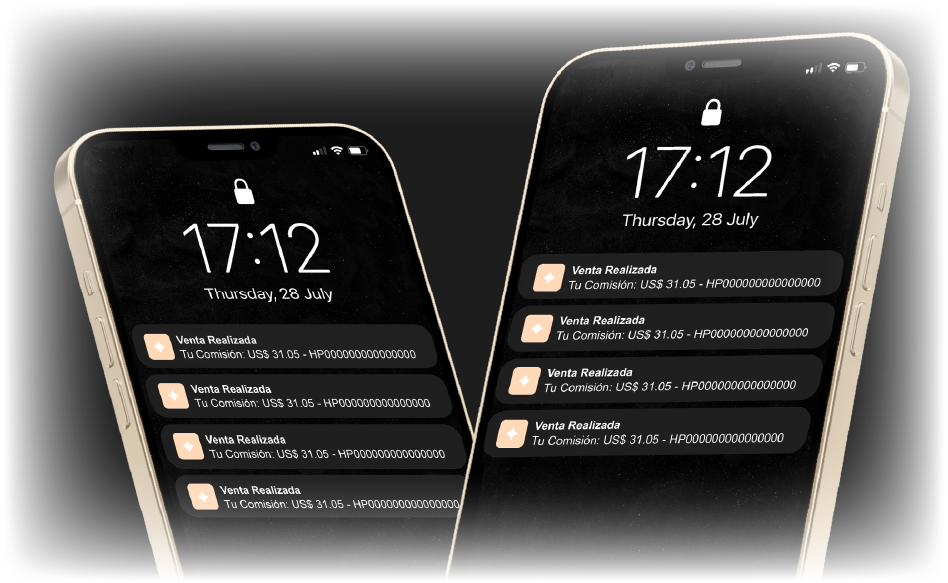
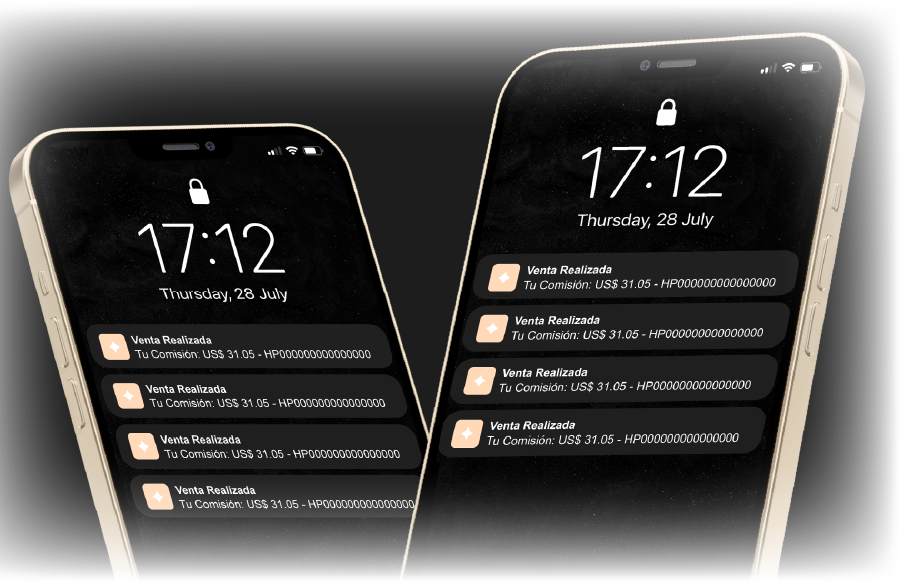
css changes

diff --git a/css/large.css b/css/large.css
@@ -6,20 +6,20 @@
     header{
         margin-top: 15vh;
         display: grid;
-        grid-template-columns: 60% 40%;
-        grid-template-rows: 10vh 10vh 10vh auto auto auto;
+        grid-template-columns: 50% 50%;
+        grid-template-rows: 15vh fit-content auto 20vh auto;
         margin-bottom: 15vh;
     }
     #iphones{
-        grid-column: 2/3;
-        grid-row: 1/4;
-        
-        align-self: flex-end;
+        grid-column: 1/2;
+        grid-row: 2/5;
+        height: 100%;
+        width: auto;
     }
     #logo-header{
-        height: 100%;
+        height: 15vh;
         grid-column: 1/2;
-        grid-row: 1/4;
+        grid-row: 1/2;
         align-self: flex-end;
         justify-self: left;
         margin-left: 0;
@@ -31,51 +31,56 @@
         align-self: flex-end;
     }
     #subtitulo-header{
-        grid-column: 1/3;
-        grid-row: 4/5;
+        grid-column: 2/3;
+        grid-row: 1/3;
         align-self: flex-start;
-        text-align: left;
+        text-align: center;
+        font-size: 2rem;
+        padding: 0 1.5vw;
+        margin-top: 0;
+        margin-bottom: 0;
     }
     header div{
-        grid-row: 5/6;
-        grid-column: 1/3;
-        /*display: grid;*/
+        grid-row: 3/5;
+        grid-column: 2/3;
         display: flex;
         flex-direction: column;
         align-items: center;
-        grid-template-columns: 50% 50%;
         width: 100%;
+        
     }
     #sub-p1{
         font-size: 1.5rem;
-        grid-column: 1/3;
-        grid-row: 1/4;
-        text-align: left;
+        text-align: center;
         align-self: flex-start;
         margin: auto;
-        width: 100%;
+        width: 80%;
     }
     #sub-p2{
         width: 100%;
+        font-size: 1rem;
         text-align: center;
         align-self: flex-start;
         margin: 2rem 0 0.5rem 0;
-        grid-column: 1/3;
     }
-    #sub-p2+button{
+    #button-1-link{
         transition: 0.2s box-shadow;
+        width: 80%;
+        display: block;
+    }
+    #button-1{
+        width: 100%;
+        font-size: 1.5rem;
+        font-weight: 400;
     }
     #sub-p2+ a button:hover{
         box-shadow: 1px 1px 15px 1px #a0805380;
     }
     header div .boton-principal{
-        width: var(--button-image-size);
-        grid-column: 1/3;
         font-weight: 500;
     }
     #pagos-1{
-        width: var(--button-img-size);
-        grid-column: 1/3;
+        width: 79%;
         display: flex;
         align-items: center;
     }
@@ -91,20 +96,43 @@
     }
     /* --- CUATRO PUNTOS --- */
     #cuatro-puntos{
-        padding: 0 20vw;
+        padding: auto;
         display: grid;
-        grid-template-columns: auto auto;
+        grid-template-columns: 50% 50%;
+        grid-template-rows: auto auto auto auto;
         margin-bottom: 5vh;
     }
     #cuatro-puntos h1{
-        font-size: 2rem;
-        align-self: flex-start;
-        margin-right: 0.5rem;
+        font-size: 3rem;
+    }
+    #cuatro-puntos :nth-child(1){
+        grid-column: 1/2;
+        grid-row: 1/2;
+    }
+    #cuatro-puntos :nth-child(2){
+        grid-column: 1/2;
+        grid-row: 2/3;
+    }
+    #cuatro-puntos :nth-child(3){
+        grid-column: 2/3;
+        grid-row: 1/2;
+    }
+    #cuatro-puntos :nth-child(4){
+        grid-column: 2/3;
+        grid-row: 2/3;
+    }
+    #cuatro-puntos :nth-child(5){
+        grid-column: 1/2;
+        grid-row: 3/4;
+    }
+    #cuatro-puntos :nth-child(6){
+        grid-column: 1/2;
+        grid-row: 4/5;
     }
     #cuatro-puntos p{
         font-size: 1.2rem;
-       text-align: left;
-        grid-column: 2/3;
+        text-align: center;
+        padding: 0 1.5rem;
     }
     main div{
         padding: 0 8vw;
@@ -112,84 +140,79 @@
     /* --- BULLET POINTS --- */
     #bullet-points-div{
         width: 90vw;
-        padding: 0 8vh;
+        padding: 5vh 8vh;
         display: grid;
-        grid-template-columns: 50% 50%;
-        column-gap: 1rem;
+        grid-template-columns: 100%;
     }
     #bullet-points-div p:nth-child(1){
-        grid-column: 1/3;
         margin-top: 5vh;
         font-size: 1rem;
+        grid-row: 2/3;
+        text-align: center;
+        display: none;
     }
     #bullet-points-div h2{
-        grid-column: 1/3;
         font-size: 2rem;
         margin: 0 0 1rem 0;
+        grid-row: 1/2;
     }
     #bullet-ul-1{
-        margin: 0;
+        margin: 0 auto;
         padding: 0;
-        grid-column: 1/2;
-        grid-row: 4/5;
-        min-width: fit-content;
-        width: 70%;
-        justify-self: right;
+        width: 23vw;
         display: flex;
         flex-direction: column;
         justify-content: space-between;
-        
     }
     #bullet-ul-1 li{
         font-size: 1rem;
     }
     #bullet-ul-2{
-        margin: 0;
         padding: 0;
-        grid-column: 2/3;
-        grid-row: 4/5;
-        min-width: fit-content;
-        width: 70%;
+        width: 23vw;
+        margin: 0 auto;
         justify-self: left;
     }
     #bullet-ul-2 li{
         font-size: 0.9rem;
     }
     #primera-lista{
-        margin-bottom: 1rem;
-        margin-left: calc(20% + 1rem);
-        text-align: left;
-        align-self: flex-end;
-        font-weight: 500;
+        text-align: center;
+        font-weight: 400;
+        grid-column: 1/2;
+        font-size: 1rem;
+        width: 25vw;
+        align-self: center;
+        justify-self: center;
+        margin-bottom: 2rem;
     }
     #segunda-lista{
-        margin-bottom: 1rem;
-        margin-left: 1rem;
-        text-align: left;
-        align-self: flex-end;
+        margin-top: 0;
+        text-align: center;
         font-weight: 500;
+        font-size: 1rem;
+        margin-bottom: 2rem;
     }
     #bullet-points-div a{
         display: inline-block;
-        width: 100%;
-        grid-column: 1/3;
+        width: 23vw;
+        margin: 0 auto;
     }
     #bullet-points-div a button{
-        
+        margin-top: 0;
         font-weight: 400;
-        width: var(--button-image-size);
+        width: 23vw;
         transition: 0.2s box-shadow;
     }
     #bullet-points-div a button:hover{
         box-shadow: 1px 1px 15px 1px #1D1D1D;
     }
     #pagos-2{
-        width: var(--button-img-size);
-        grid-column: 1/3;
+        width: 20vw;
         margin: auto;
     }
     #pagos-2 img{
-        width: var(--button-img-size);
+        width: 20vw;
         margin-bottom: 5vh;
     }
     /* --- CUARTO PARRAFO --- */

diff --git a/index.html b/index.html
@@ -33,7 +33,7 @@
                 podrás ganar dinero online y lograr la vida que siempre soñaste.
             </p>
             <p id="sub-p2" class="parrafo-font center blanco mon-light">Haz click abajo para dar el primer paso.</p>
-            <a href="https://pay.hotmart.com/B70922004I?checkoutMode=10"><button class="boton-principal">QUIERO COMENZAR AHORA</button></a>
+            <a id="button-1-link" href="https://pay.hotmart.com/B70922004I?checkoutMode=10"><button id="button-1" class="boton-principal">QUIERO COMENZAR AHORA</button></a>
             <picture id="pagos-1">
                 <img src="images/Tarjetas Boton 1.png" alt="Metodos de pago">
             </picture>
